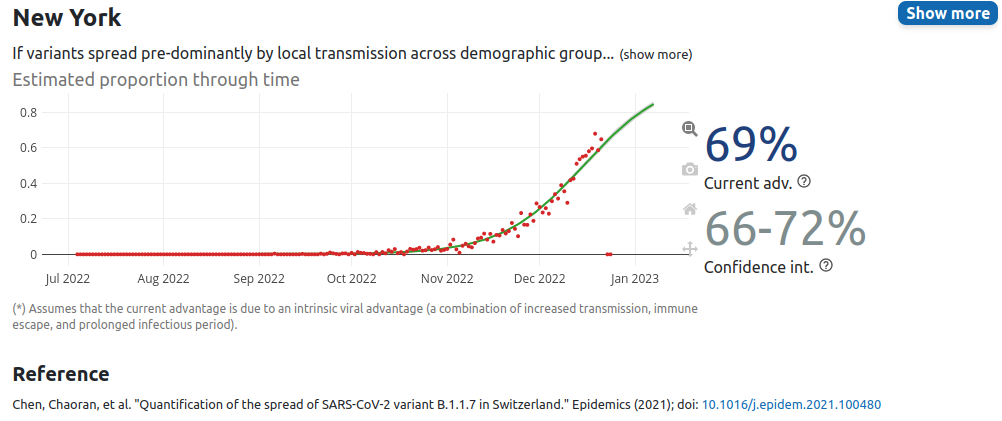
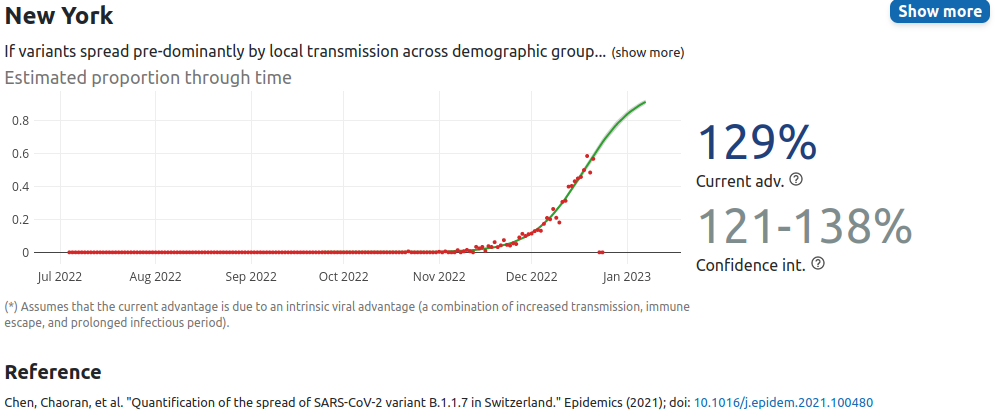
updates

diff --git a/reports/variant_report_latest_draft.md b/reports/variant_report_latest_draft.md
@@ -8,28 +8,30 @@ No sequences with concerning mutation patterns have been submitted.
 ## XBB.1.5
 
 XBB.1.5 is continuing to increase in frequency globally.
-XBB.1.5 emerged from XBB, a recombinant of two BA.2 lineages, and is characterized by two additional mutation in Spike (G252V leading XBB.1, and the additional S486P in XBB.1.5).
+XBB.1.5 emerged from XBB, a recombinant of two BA.2 lineages (see [illustration](../images/XBB_recomb.jpg) by Emma Hodcroft), and is characterized by two additional mutations in Spike (G252V leading XBB.1, and the additional S486P in XBB.1.5).
 Position 486 is already mutated in XBB from the ancestral `F` to `S`.
 Similarly, position 486 is mutated to `V` in BA.5.
-Mutations at this position contributes to immune evasion of antibody responses against BA.2 like variants, but most residues at this position reduce hACE2 binding.
+Mutations at this position contribute to immune evasion of antibody responses against BA.2 like variants, but most residues at this position reduce hACE2 binding.
 The two-step change from `F` to `S` to `P` restores hACE2 binding while maintaining an immune evasive profile, see [Cam Yua, Yunlong Cao and colleagues](https://www.biorxiv.org/content/10.1101/2023.01.03.522427v2).
 
-![Fig1_Yua](../images/2023-01-06_XBB15_evasion.png)
-*Neutralization titers and hACE2 binding affinities of XBB and XBB.1.5 variants.*
+![Fig1_Yua](../images/2023-01-06_XBB15_evasion.png)<br>
+*Neutralization titers and hACE2 binding affinities of XBB and XBB.1.5 variants. (Fig 1 from [Cam Yua and colleagues](https://www.biorxiv.org/content/10.1101/2023.01.03.522427v2))*
 
 XBB and descendants (22F in Nextstrain nomenclature) were dominant in South Asia earlier this fall and also contributed significantly to circulation in South- and Central America.
 XBB.1.5 rose rapidly in frequency in the North East of the USA and has been dominating there since mid-December.
 Outside of the North East of the US the variant is still sub-dominant, but increasing.
 
-![XBB15_NY](../images/2023-01-06_XBB15_NY.png)
-*XBB.1.5 is predicted to be between 80% and 90% in New York state.*
+![XBB15_NY](../images/2023-01-06_XBB15_NY.png)<br>
+*XBB.1.5 is dominating in New York and the logistic extrapolation puts its current frequency between 80% and 90%. See [Cov-Spectrum](https://cov-spectrum.org/explore/United%20States/AllSamples/Past6M/variants?nextcladePangoLineage=XBB.1.5*&) for up-to-date statistics based onb *
 
 In Europe, XBB.1.5 is still rare.
-CoV-Spectrum currently lists 267 XBB.1.5 from Europe, corresponding to about 1% of all data submitted in the second half of December.
-The frequency is doubling roughly every week and via an informal "now-cast" we would thus expect around 3-6\% in the first half of January.
+[CoV-Spectrum](https://cov-spectrum.org/explore/Europe/AllSamples/Past2M/variants?nextcladePangoLineage=xbb.1.5*&) currently lists 267 XBB.1.5 from Europe, corresponding to about 1% of all data submitted in the second half of December.
+The frequency has been doubling roughly every week and if these trends continued we would thus expect around 3-6\% in the first half of January.
 XBB.1.5 is observed across the continent with slightly higher proportions in the UK and the Netherlands.
+As expected, phylogenetic analyses indicate many introductions of XBB.1.5.
 
-
+There is little conclusive information on severity of XBB.1.5 compared to other circulating variants, but cases and hospitalizations have risen across the USA and not only in regions where XBB.1.5 is dominant.
+This is an early tentative sign that the severity of XBB.1.5 infections is not substantially different from other current variants.
 
 
 # Variant report 2023-01-02
